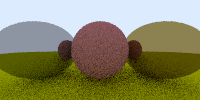
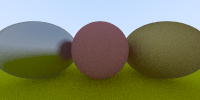
fixed some norm bugs and chapter 8

diff --git a/PyTrace_Weekend_numpy/main.py b/PyTrace_Weekend_numpy/main.py
@@ -13,17 +13,8 @@ from mpl_toolkits.mplot3d import Axes3D
 
 MAX_FLOAT = sys.float_info.max
 
-def random_in_unit_sphere(arr: np.ndarray):
-	shape = arr.shape
-	random_tile_in_sphere = np.random.randn(*shape)
-	# print(random_tile_in_sphere.shape)
-	# print(np.linalg.norm(random_tile_in_sphere,axis=2).shape)
-	random_tile_in_sphere /= tile(np.linalg.norm(random_tile_in_sphere,axis=-1))
-	return  random_tile_in_sphere
 
-	
-
-def color(r: ray,world: list,tile_shape,depth = 0,max_depth = 4):
+def color(r: ray,world: list,tile_shape,depth = 0,max_depth = 2):
 	t = 0
 	target = 0
 	tile_x,tile_y = tile_shape
@@ -39,7 +30,7 @@ def color(r: ray,world: list,tile_shape,depth = 0,max_depth = 4):
 			#masks out all values that we didn't get hits for 
 				mask = ~np.all(rec.t == -1.0, axis=-1)
 				t += tile(mask) * (closest_hit == rec.t) *  rec.t
-				target = rec.p + rec.normal + tile(mask) * random_in_unit_sphere(rec.normal)
+				#target = rec.p + rec.normal + tile(mask) * random_in_unit_sphere(rec.normal.shape)
 				#mask out all color contributions that are calculated incorrectly using a mask
 				hit_color += 0.5 * tile(mask) * (closest_hit == rec.t) * attenuation *  color(scattered,world,tile_shape,depth+1,max_depth)
 
@@ -62,6 +53,7 @@ def color(r: ray,world: list,tile_shape,depth = 0,max_depth = 4):
 	unit_direction = unit_vector(r.direction())
 	#print((unit_direction ** 2).sum(axis=-1) ** 0.5)
 	t2 = tile(0.5 * (unit_direction[:,:,1] + 1.0))
+
 	sky_color = vec3(1.0,1.0,1.0) * (1.0 - t2) + vec3(0.5,0.7,1.0) * t2
 
 	return np.where(t > 0, hit_color,sky_color)
@@ -73,8 +65,8 @@ def main(nx: float = 200, ny: float = 100,ns: float = 100):
 	hit_object_list = []
 	hit_object_list.append(sphere(vec3(0,0,-1),0.5,lambertian(vec3(0.8,0.3,0.3))))
 	hit_object_list.append(sphere(vec3(0,-100.5,-1),100,lambertian(vec3(0.8,0.8,0.0))))	
-	hit_object_list.append(sphere(vec3(1,0,-1),0.5,metal(vec3(0.8,0.6,0.2))))
-	hit_object_list.append(sphere(vec3(-1,0,-1),0.5,metal(vec3(0.8,0.8,0.8))))
+	hit_object_list.append(sphere(vec3(1,0,-1),0.5,metal(vec3(0.8,0.6,0.2),1.0)))
+	hit_object_list.append(sphere(vec3(-1,0,-1),0.5,metal(vec3(0.8,0.8,0.8),0.3)))
 
 
 
@@ -97,7 +89,7 @@ def main(nx: float = 200, ny: float = 100,ns: float = 100):
 	# print(output.shape)
 	plt.imsave("output.png",np.rot90(output.astype(int)))
 if __name__ == "__main__": 
-	main(200,100,10)
+	main(200,100,100)
 	# X = random_in_unit_sphere(np.random.randn(200,100,3))
 	# fig = plt.figure()
 	# ax = fig.add_subplot(111)

diff --git a/PyTrace_Weekend_numpy/src/core/material.py b/PyTrace_Weekend_numpy/src/core/material.py
@@ -16,8 +16,9 @@ def reflect(incoming_vector, normal):
 	return outgoing_vector
 
 
-def random_in_unit_sphere(arr: np.ndarray):
-	shape = arr.shape
+def random_in_unit_sphere(rand_shape: np.ndarray):
+	shape = rand_shape
+	#print(shape)
 	random_tile_in_sphere = np.random.randn(*shape)
 	# print(random_tile_in_sphere.shape)
 	# print(np.linalg.norm(random_tile_in_sphere,axis=2).shape)
@@ -28,7 +29,7 @@ class lambertian(material):
 	def __init__(self,albedo: vec3):
 		self.albedo = albedo
 	def scatter(self,r_in: ray, rec):
-		target = rec.p + rec.normal + random_in_unit_sphere(rec.normal)
+		target = rec.p + rec.normal + random_in_unit_sphere(rec.normal.shape)
 		#mask = ~np.all(rec.t == -1.0, axis=-1)
 		scattered = ray(rec.p,target - rec.p)
 		attenuation = self.albedo
@@ -43,6 +44,6 @@ class metal(material):
 		self.albedo = albedo
 	def scatter(self,r_in: ray, rec):
 		reflected = reflect(unit_vector(r_in.direction()),rec.normal)
-		scattered = ray(rec.p,reflected + self.fuzz * random_in_unit_sphere(reflected))
+		scattered = ray(rec.p,reflected + self.fuzz * random_in_unit_sphere(reflected.shape))
 		attenuation = self.albedo
 		return np.any(tiledot(scattered.direction(),rec.normal) > 0),(scattered,attenuation)

diff --git a/PyTrace_Weekend_numpy/src/core/utils.py b/PyTrace_Weekend_numpy/src/core/utils.py
@@ -46,7 +46,7 @@ def unit_vector(vector: np.ndarray):
 	assert(vector.shape[-1]) == 3
 
 	#length = tile((vector ** 2).sum(axis=-1) ** 0.5)
-	length = np.linalg.norm(vector)
+	length = tile(np.linalg.norm(vector,axis=-1))
 	#print(vector.shape)
 	#length = np.repeat(length[:,:,np.newaxis],3,axis=2)
 	#print(length.shape)
